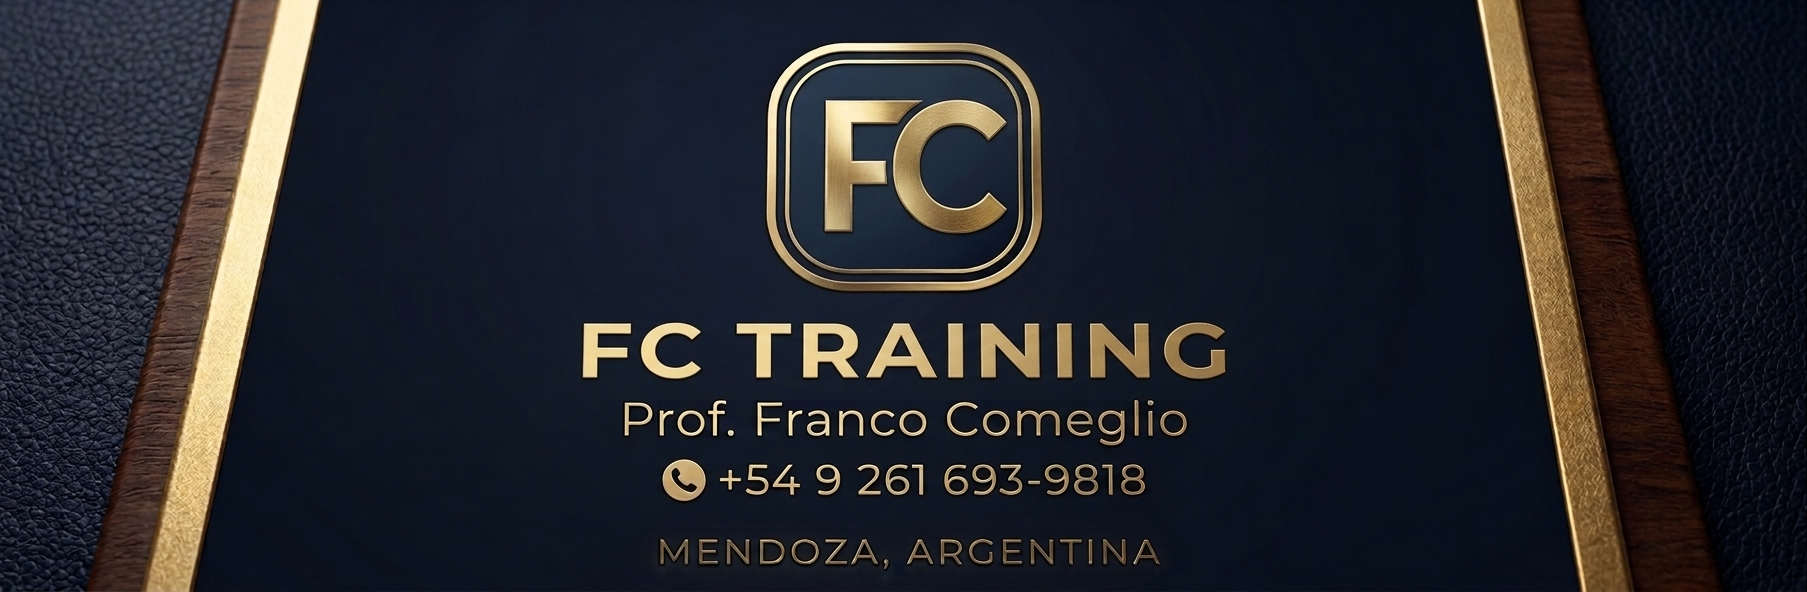
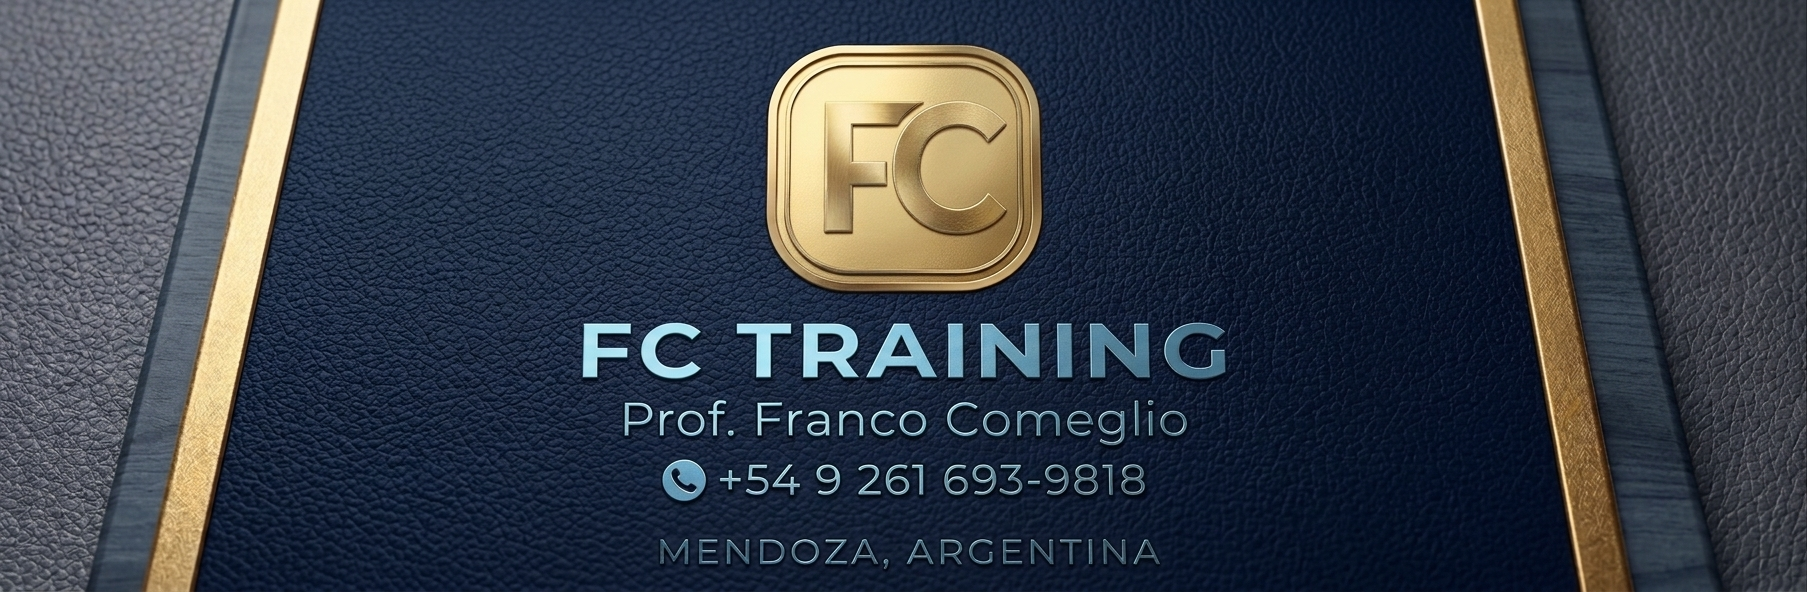
feat: Cambio e integración de Marca Oficial y paleta cromática

diff --git a/index.html b/index.html
@@ -3,7 +3,7 @@
 <head>
     <meta charset="UTF-8">
     <meta name="viewport" content="width=device-width, initial-scale=1.0">
-    <title>fctraining.ar - Prof. Franco Comeglio</title>
+    <title>FC Training - Prof. Franco Comeglio</title>
     
     <!-- Tailwind CSS via CDN -->
     <script src="https://cdn.tailwindcss.com"></script>
@@ -11,7 +11,22 @@
     <script src="https://unpkg.com/feather-icons"></script>
     
     <style>
-        body { -webkit-tap-highlight-color: transparent; }
+        body { 
+            -webkit-tap-highlight-color: transparent; 
+            background-color: #060b14;
+        }
+
+        /* Personalización de scrollbar táctil */
+        ::-webkit-scrollbar {
+            width: 6px;
+        }
+        ::-webkit-scrollbar-track {
+            background: #0b1320;
+        }
+        ::-webkit-scrollbar-thumb {
+            background: #d97706;
+            border-radius: 4px;
+        }
 
         /* ESTILOS DE IMPRESIÓN Y GENERACIÓN PDF NATIVA */
         @media print {
@@ -45,28 +60,23 @@
         }
     </style>
 </head>
-<body class="bg-slate-950 text-slate-100 min-h-screen pb-24 font-sans">
+<body class="text-slate-100 min-h-screen pb-24 font-sans selection:bg-amber-500 selection:text-slate-950">
 
-    <!-- ENCABEZADO PERMANENTE CON IMAGEN DE MARCA FCTRAINING.AR -->
-    <header class="sticky top-0 z-40 bg-slate-900/95 text-white border-b-2 border-amber-500/70 px-4 py-2.5 shadow-2xl backdrop-blur-md">
-        <div class="max-w-md mx-auto flex items-center justify-between">
-            <div class="flex items-center gap-3">
-                <!-- MARCA OFICIAL DEL PROFESOR (IMAGEN DE MARCA) -->
-                <div class="w-12 h-12 rounded-xl bg-slate-950 overflow-hidden shadow-lg border border-amber-400/50 shrink-0 flex items-center justify-center p-0.5">
+    <!-- ENCABEZADO PERMANENTE CON IMAGEN DE MARCA ÚNICA (SIN TEXTOS EXTRA) -->
+    <header class="sticky top-0 z-40 bg-slate-950/95 text-white border-b-2 border-amber-500/80 px-4 py-2 shadow-2xl backdrop-blur-md">
+        <div class="max-w-md mx-auto flex items-center justify-between gap-2">
+            <!-- MARCA ÚNICA OFICIAL DEL PROFESOR -->
+            <div class="flex items-center">
+                <div class="h-14 rounded-xl overflow-hidden shadow-md border border-amber-400/60 bg-slate-900 flex items-center justify-center">
                     <img src="./imagenes/franco-fit-MARCA.jpg" 
                          alt="FC Training - Prof. Franco Comeglio" 
-                         class="w-full h-full object-cover rounded-lg"
-                         onerror="this.onerror=null; this.parentElement.innerHTML='<div class=\'text-[10px] font-black text-amber-400 text-center\'>FC</div>';">
-                </div>
-                <div>
-                    <h1 class="text-base font-black tracking-tight leading-none text-white flex items-center gap-1">
-                        FC <span class="text-amber-400">TRAINING</span><span class="text-xs text-sky-400 font-extrabold">.ar</span>
-                    </h1>
-                    <p class="text-[11px] text-amber-200/90 font-medium mt-0.5" id="prof-name">Prof. Franco Comeglio</p>
-                    <p class="text-[10px] text-slate-400 font-mono" id="prof-contact">+54 9 261 693-9818</p>
+                         class="h-full w-auto object-cover rounded-lg"
+                         onerror="this.onerror=null; this.parentElement.innerHTML='<div class=\'text-xs font-black text-amber-400 px-3\'>FC TRAINING</div>';">
                 </div>
             </div>
-            <button onclick="toggleViewMode()" id="role-toggle-btn" class="text-xs bg-amber-600 hover:bg-amber-500 text-slate-950 px-3 py-2 rounded-xl border border-amber-400 transition font-black shadow-md active:scale-95">
+
+            <!-- BOTÓN DE CAMBIO DE MODO -->
+            <button onclick="toggleViewMode()" id="role-toggle-btn" class="text-xs bg-gradient-to-r from-amber-500 to-amber-600 hover:from-amber-400 hover:to-amber-500 text-slate-950 px-3.5 py-2.5 rounded-xl border border-amber-300 transition font-black shadow-lg active:scale-95 shrink-0">
                 Modo: Profesor
             </button>
         </div>
@@ -75,41 +85,41 @@
     <main class="max-w-md mx-auto p-4 space-y-5">
 
         <!-- BANNER DE ROL / ESTADO -->
-        <div id="role-banner" class="bg-slate-900 border-l-4 border-amber-400 rounded-xl p-3 flex items-center justify-between text-xs text-slate-200 shadow-md">
-            <span id="role-banner-text">Modo Profesor: Gestión de alumnos y diseño de rutinas</span>
-            <span class="w-2.5 h-2.5 rounded-full bg-amber-400 animate-pulse"></span>
+        <div id="role-banner" class="bg-slate-900/90 border-l-4 border-amber-400 rounded-xl p-3 flex items-center justify-between text-xs text-slate-200 shadow-lg border border-slate-800">
+            <span id="role-banner-text" class="font-medium">Modo Profesor: Gestión de alumnos y diseño de rutinas</span>
+            <span class="w-2.5 h-2.5 rounded-full bg-amber-400 animate-pulse shrink-0"></span>
         </div>
 
         <!-- SELECCIÓN Y GESTIÓN DE ALUMNOS + PLANIFICACIÓN (MODO PROFESOR) -->
-        <section id="student-management-card" class="bg-slate-900 rounded-2xl p-4 border border-slate-800 shadow-xl space-y-3">
-            <h3 class="text-xs font-bold text-amber-400 uppercase tracking-wider flex items-center justify-between">
-                <span class="flex items-center gap-1.5"><i data-feather="users" class="w-4 h-4"></i> Selección y Planificación</span>
+        <section id="student-management-card" class="bg-slate-900/90 rounded-2xl p-4 border border-amber-500/20 shadow-xl space-y-3">
+            <h3 class="text-xs font-bold text-amber-400 uppercase tracking-wider flex items-center justify-between border-b border-slate-800 pb-2">
+                <span class="flex items-center gap-1.5"><i data-feather="users" class="w-4 h-4 text-amber-400"></i> Selección y Planificación</span>
             </h3>
 
             <div>
                 <label class="block text-[11px] font-bold text-slate-300 mb-1">Seleccionar Alumno de Lista</label>
-                <select id="student-select-list" onchange="onStudentSelectChange()" class="w-full bg-slate-950 border border-amber-500/40 rounded-xl p-2.5 text-xs text-white font-bold focus:ring-2 focus:ring-amber-400">
+                <select id="student-select-list" onchange="onStudentSelectChange()" class="w-full bg-slate-950 border border-amber-500/40 rounded-xl p-2.5 text-xs text-white font-bold focus:ring-2 focus:ring-amber-400 focus:outline-none">
                 </select>
             </div>
 
             <div class="grid grid-cols-2 gap-2 pt-1">
                 <div>
                     <label class="block text-[10px] font-bold text-slate-400 mb-1">Apellido(s)</label>
-                    <input type="text" id="student-lastname-input" placeholder="Ej. Pérez" class="w-full bg-slate-950 border border-slate-800 rounded-xl p-2 text-xs text-white font-semibold">
+                    <input type="text" id="student-lastname-input" placeholder="Ej. Pérez" class="w-full bg-slate-950 border border-slate-800 rounded-xl p-2 text-xs text-white font-semibold focus:border-amber-400 focus:outline-none">
                 </div>
                 <div>
                     <label class="block text-[10px] font-bold text-slate-400 mb-1">Nombre(s)</label>
-                    <input type="text" id="student-firstname-input" placeholder="Ej. Juan" class="w-full bg-slate-950 border border-slate-800 rounded-xl p-2 text-xs text-white font-semibold">
+                    <input type="text" id="student-firstname-input" placeholder="Ej. Juan" class="w-full bg-slate-950 border border-slate-800 rounded-xl p-2 text-xs text-white font-semibold focus:border-amber-400 focus:outline-none">
                 </div>
             </div>
 
             <!-- CONFIGURACIÓN DE PLANIFICACIÓN Y CICLOS -->
-            <div class="bg-slate-950 p-3 rounded-xl border border-slate-800 space-y-2">
+            <div class="bg-slate-950 p-3 rounded-xl border border-slate-800/80 space-y-2">
                 <span class="text-[10px] font-bold text-amber-400 uppercase tracking-wider block">Configuración de Ciclo</span>
                 <div class="grid grid-cols-2 gap-2">
                     <div>
                         <label class="block text-[10px] font-bold text-slate-400 mb-1">Tipo de Ciclo</label>
-                        <select id="student-cycle-type" class="w-full bg-slate-900 border border-slate-700 rounded-xl p-2 text-xs text-white font-semibold">
+                        <select id="student-cycle-type" class="w-full bg-slate-900 border border-slate-700 rounded-xl p-2 text-xs text-white font-semibold focus:outline-none">
                             <option value="Microciclo">Microciclo</option>
                             <option value="Mesociclo" selected>Mesociclo</option>
                             <option value="Macrociclo">Macrociclo</option>
@@ -117,46 +127,46 @@
                     </div>
                     <div>
                         <label class="block text-[10px] font-bold text-slate-400 mb-1">Duración (Semanas)</label>
-                        <input type="number" id="student-total-weeks" min="1" max="52" value="8" class="w-full bg-slate-900 border border-slate-700 rounded-xl p-2 text-xs text-white font-semibold text-center">
+                        <input type="number" id="student-total-weeks" min="1" max="52" value="8" class="w-full bg-slate-900 border border-slate-700 rounded-xl p-2 text-xs text-white font-semibold text-center focus:outline-none">
                     </div>
                 </div>
             </div>
 
             <div class="flex gap-2 pt-1">
-                <button onclick="saveCurrentStudent()" class="w-full bg-amber-600 hover:bg-amber-500 text-slate-950 text-xs font-black py-2.5 rounded-xl border border-amber-400 shadow transition flex items-center justify-center gap-1.5">
+                <button onclick="saveCurrentStudent()" class="w-full bg-gradient-to-r from-amber-500 to-amber-600 hover:from-amber-400 hover:to-amber-500 text-slate-950 text-xs font-black py-2.5 rounded-xl border border-amber-300 shadow transition flex items-center justify-center gap-1.5 active:scale-95">
                     <i data-feather="save" class="w-3.5 h-3.5"></i> Guardar Alumno / Plan
                 </button>
-                <button onclick="prepareNewStudent()" class="w-1/2 bg-slate-800 hover:bg-slate-700 text-slate-300 text-xs font-bold py-2.5 rounded-xl border border-slate-700 transition flex items-center justify-center gap-1">
+                <button onclick="prepareNewStudent()" class="w-1/2 bg-slate-800 hover:bg-slate-700 text-slate-300 text-xs font-bold py-2.5 rounded-xl border border-slate-700 transition flex items-center justify-center gap-1 active:scale-95">
                     <i data-feather="user-plus" class="w-3.5 h-3.5"></i> Nuevo
                 </button>
             </div>
         </section>
 
         <!-- FICHA ALUMNO ACTIVO -->
-        <section class="bg-gradient-to-r from-slate-900 via-slate-900 to-amber-950/40 text-white rounded-2xl p-4 border border-amber-500/30 shadow-2xl space-y-3">
-            <div class="flex justify-between items-start border-b border-slate-800 pb-3">
+        <section class="bg-gradient-to-br from-slate-900 via-slate-900 to-amber-950/30 text-white rounded-2xl p-4 border border-amber-500/30 shadow-2xl space-y-3">
+            <div class="flex justify-between items-start border-b border-slate-800/80 pb-3">
                 <div>
                     <span class="text-[10px] font-bold text-amber-400 uppercase tracking-widest block">Alumno Activo</span>
-                    <h2 class="text-xl font-black text-white" id="student-display-fullname">Pérez, Juan</h2>
+                    <h2 class="text-xl font-black text-white tracking-tight" id="student-display-fullname">Pérez, Juan</h2>
                 </div>
                 <div class="text-right">
                     <span class="text-[10px] text-amber-400 uppercase tracking-wider block">Planificación</span>
-                    <span class="text-xs font-extrabold text-amber-200 bg-slate-950 px-2.5 py-1 rounded-lg border border-amber-500/40 inline-block" id="cycle-display">Mesociclo (8 Semanas)</span>
+                    <span class="text-xs font-extrabold text-amber-200 bg-slate-950 px-2.5 py-1 rounded-lg border border-amber-500/40 inline-block shadow-inner" id="cycle-display">Mesociclo (8 Semanas)</span>
                 </div>
             </div>
         </section>
 
         <!-- SELECCIÓN SEMANA Y DÍA EN PANTALLA -->
-        <section id="prof-controls" class="bg-slate-900 rounded-2xl p-4 border border-slate-800 shadow-xl space-y-4">
+        <section id="prof-controls" class="bg-slate-900/90 rounded-2xl p-4 border border-slate-800 shadow-xl space-y-4">
             <div class="grid grid-cols-2 gap-2">
                 <div>
                     <label class="block text-xs font-bold text-slate-300 mb-1">Semana de Vista</label>
-                    <select id="week-select" onchange="onWeekSelectChange()" class="w-full bg-slate-950 border border-amber-500/40 rounded-xl p-2.5 text-xs text-white font-bold">
+                    <select id="week-select" onchange="onWeekSelectChange()" class="w-full bg-slate-950 border border-amber-500/40 rounded-xl p-2.5 text-xs text-white font-bold focus:ring-2 focus:ring-amber-400 focus:outline-none">
                     </select>
                 </div>
                 <div>
                     <label class="block text-xs font-bold text-slate-300 mb-1">Día de Vista</label>
-                    <select id="day-select" onchange="onDaySelectChange()" class="w-full bg-slate-950 border border-amber-500/40 rounded-xl p-2.5 text-xs text-white font-bold">
+                    <select id="day-select" onchange="onDaySelectChange()" class="w-full bg-slate-950 border border-amber-500/40 rounded-xl p-2.5 text-xs text-white font-bold focus:ring-2 focus:ring-amber-400 focus:outline-none">
                         <option value="1">Día 1</option>
                         <option value="2">Día 2</option>
                         <option value="3">Día 3</option>
@@ -174,7 +184,7 @@
                 <h3 class="text-sm font-bold text-slate-200 flex items-center gap-2">
                     <i data-feather="activity" class="w-4 h-4 text-amber-400"></i> Ejercicios: <span id="current-view-title" class="text-amber-300 font-extrabold">Semana 1 / Día 1</span>
                 </h3>
-                <button onclick="openAddModal()" id="add-ex-btn" class="text-xs bg-amber-600 hover:bg-amber-500 text-slate-950 font-black px-3 py-1.5 rounded-xl transition shadow border border-amber-400">
+                <button onclick="openAddModal()" id="add-ex-btn" class="text-xs bg-amber-500 hover:bg-amber-400 text-slate-950 font-black px-3 py-1.5 rounded-xl transition shadow-lg border border-amber-300 active:scale-95">
                     + Cargar Ejercicio
                 </button>
             </div>
@@ -183,8 +193,8 @@
         </section>
 
         <!-- MÓDULO NUTRICIONAL EN PANTALLA -->
-        <section id="interactive-nutrition-section" class="bg-slate-900 border border-slate-800 p-4 rounded-2xl space-y-3 shadow-xl">
-            <div class="flex items-center justify-between border-b border-slate-800 pb-2">
+        <section id="interactive-nutrition-section" class="bg-slate-900/90 border border-slate-800 p-4 rounded-2xl space-y-3 shadow-xl">
+            <div class="flex items-center justify-between border-b border-slate-800/80 pb-2">
                 <h3 class="text-xs font-bold text-emerald-400 uppercase tracking-wider flex items-center gap-1.5">
                     <i data-feather="coffee" class="w-4 h-4"></i> Plan Nutricional & Recomendaciones
                 </h3>
@@ -198,8 +208,8 @@
         </section>
 
         <!-- BOTÓN DE GUARDAR / IMPRIMIR PDF COMPLETO (MODO ALUMNO) -->
-        <section id="prof-actions" class="bg-slate-900 border border-slate-800 p-4 rounded-2xl space-y-3 shadow-xl hidden">
-            <button onclick="triggerPrintPDF()" class="w-full bg-gradient-to-r from-amber-600 to-amber-700 hover:from-amber-500 hover:to-amber-600 text-slate-950 font-black p-3.5 rounded-xl border border-amber-300 shadow-xl flex items-center justify-center gap-2 text-xs">
+        <section id="prof-actions" class="bg-slate-900/90 border border-slate-800 p-4 rounded-2xl space-y-3 shadow-xl hidden">
+            <button onclick="triggerPrintPDF()" class="w-full bg-gradient-to-r from-amber-500 via-amber-600 to-amber-500 hover:from-amber-400 hover:to-amber-500 text-slate-950 font-black p-3.5 rounded-xl border border-amber-300 shadow-xl flex items-center justify-center gap-2 text-xs active:scale-95 transition">
                 <i data-feather="printer" class="w-4 h-4 text-slate-950"></i> Guardar / Imprimir PDF Completo (Todas las Semanas)
             </button>
         </section>
@@ -225,26 +235,26 @@
                 <input type="hidden" id="modal-ex-id" value="">
                 <div>
                     <label class="block font-bold text-slate-300 mb-1">Nombre del Ejercicio *</label>
-                    <input type="text" id="modal-ex-name" required placeholder="Ej. Press Banca Plano" class="w-full bg-slate-950 border border-slate-700 rounded-xl p-2.5 text-white">
+                    <input type="text" id="modal-ex-name" required placeholder="Ej. Press Banca Plano" class="w-full bg-slate-950 border border-slate-700 rounded-xl p-2.5 text-white focus:border-amber-400 focus:outline-none">
                 </div>
 
                 <div class="bg-slate-950 p-3 rounded-xl border border-slate-800 space-y-2">
                     <label class="block font-bold text-amber-300 text-[11px]">Demostración Visual (GIF / Vídeo / Imagen)</label>
                     <div>
                         <label class="block text-[10px] text-slate-400 mb-1">A) Enlace / URL Web</label>
-                        <input type="url" id="modal-ex-media-url" placeholder="https://media.giphy.com/..." class="w-full bg-slate-900 border border-slate-700 rounded-xl p-2 text-white text-[11px]">
+                        <input type="url" id="modal-ex-media-url" placeholder="https://media.giphy.com/..." class="w-full bg-slate-900 border border-slate-700 rounded-xl p-2 text-white text-[11px] focus:border-amber-400 focus:outline-none">
                     </div>
                     <div class="text-center text-[10px] font-bold text-slate-500 uppercase">- O -</div>
                     <div>
                         <label class="block text-[10px] text-slate-400 mb-1">B) Archivo Local</label>
-                        <input type="file" id="modal-ex-file" accept="image/*" class="w-full bg-slate-900 text-slate-300 text-[11px] rounded-xl border border-slate-700 file:mr-2 file:py-1.5 file:px-3 file:rounded-lg file:border-0 file:text-[10px] file:font-bold file:bg-amber-600 file:text-slate-950 hover:file:bg-amber-500">
+                        <input type="file" id="modal-ex-file" accept="image/*" class="w-full bg-slate-900 text-slate-300 text-[11px] rounded-xl border border-slate-700 file:mr-2 file:py-1.5 file:px-3 file:rounded-lg file:border-0 file:text-[10px] file:font-bold file:bg-amber-500 file:text-slate-950 hover:file:bg-amber-400">
                     </div>
                 </div>
 
                 <div class="grid grid-cols-3 gap-2">
                     <div class="col-span-1">
                         <label class="block font-bold text-amber-300 mb-1">Tipo</label>
-                        <select id="modal-ex-type" class="w-full bg-slate-950 border border-amber-500/40 rounded-xl p-2.5 text-white font-bold">
+                        <select id="modal-ex-type" class="w-full bg-slate-950 border border-amber-500/40 rounded-xl p-2.5 text-white font-bold focus:outline-none">
                             <option value="Serie Simple">Serie Simple</option>
                             <option value="Biserie">Biserie</option>
                             <option value="Circuito">Circuito</option>
@@ -252,11 +262,11 @@
                     </div>
                     <div>
                         <label class="block font-bold text-slate-300 mb-1">Series</label>
-                        <input type="number" id="modal-ex-sets" min="1" max="20" value="4" required class="w-full bg-slate-950 border border-slate-700 rounded-xl p-2.5 text-white text-center font-bold">
+                        <input type="number" id="modal-ex-sets" min="1" max="20" value="4" required class="w-full bg-slate-950 border border-slate-700 rounded-xl p-2.5 text-white text-center font-bold focus:outline-none">
                     </div>
                     <div>
                         <label class="block font-bold text-slate-300 mb-1">Repeticiones</label>
-                        <input type="text" id="modal-ex-reps" required placeholder="10-12" value="10-12" class="w-full bg-slate-950 border border-slate-700 rounded-xl p-2.5 text-white text-center font-bold">
+                        <input type="text" id="modal-ex-reps" required placeholder="10-12" value="10-12" class="w-full bg-slate-950 border border-slate-700 rounded-xl p-2.5 text-white text-center font-bold focus:outline-none">
                     </div>
                 </div>
 
@@ -290,7 +300,7 @@
 
                 <div class="flex gap-2 pt-2">
                     <button type="button" onclick="closeModal()" class="w-1/2 bg-slate-800 hover:bg-slate-700 text-slate-300 py-2.5 rounded-xl font-bold">Cancelar</button>
-                    <button type="submit" class="w-1/2 bg-amber-600 hover:bg-amber-500 text-slate-950 py-2.5 rounded-xl font-black shadow border border-amber-400">Guardar Ejercicio</button>
+                    <button type="submit" class="w-1/2 bg-amber-500 hover:bg-amber-400 text-slate-950 py-2.5 rounded-xl font-black shadow border border-amber-300">Guardar Ejercicio</button>
                 </div>
             </form>
         </div>
@@ -309,11 +319,11 @@
             <form onsubmit="saveNutritionPlan(event)" class="space-y-3 text-xs">
                 <div>
                     <label class="block font-bold text-slate-300 mb-1">Indicaciones / Pautas Dietéticas</label>
-                    <textarea id="nut-diet-input" rows="3" placeholder="Ej. Aumentar consumo de proteínas (2g/kg). Mantener superávit calórico." class="w-full bg-slate-950 border border-slate-700 rounded-xl p-2.5 text-white"></textarea>
+                    <textarea id="nut-diet-input" rows="3" placeholder="Ej. Aumentar consumo de proteínas (2g/kg). Mantener superávit calórico." class="w-full bg-slate-950 border border-slate-700 rounded-xl p-2.5 text-white focus:border-amber-400 focus:outline-none"></textarea>
                 </div>
                 <div>
                     <label class="block font-bold text-slate-300 mb-1">Hidratación y Suplementación</label>
-                    <textarea id="nut-supplements-input" rows="2" placeholder="Ej. 3 litros de agua/día. Creatina 5g diarios post entreno." class="w-full bg-slate-950 border border-slate-700 rounded-xl p-2.5 text-white"></textarea>
+                    <textarea id="nut-supplements-input" rows="2" placeholder="Ej. 3 litros de agua/día. Creatina 5g diarios post entreno." class="w-full bg-slate-950 border border-slate-700 rounded-xl p-2.5 text-white focus:border-amber-400 focus:outline-none"></textarea>
                 </div>
 
                 <div class="flex gap-2 pt-2">
@@ -576,29 +586,29 @@
 
                     <div class="p-4 space-y-3">
                         <div class="flex justify-between items-center">
-                            <h4 class="font-black text-white text-base">${ex.name}</h4>
-                            <span class="bg-amber-500 text-slate-950 text-[10px] font-black px-2.5 py-0.5 rounded-full">${ex.type}</span>
+                            <h4 class="font-black text-white text-base tracking-tight">${ex.name}</h4>
+                            <span class="bg-amber-500 text-slate-950 text-[10px] font-black px-2.5 py-0.5 rounded-full uppercase">${ex.type}</span>
                         </div>
 
                         <div class="grid grid-cols-2 gap-2 text-xs">
-                            <div class="bg-slate-950 p-2 rounded-xl text-center border border-slate-800">
+                            <div class="bg-slate-950 p-2 rounded-xl text-center border border-slate-800/80">
                                 <span class="text-amber-400 text-[10px] font-bold block">Series</span>
                                 <span class="text-white font-black text-base">${ex.sets}</span>
                             </div>
-                            <div class="bg-slate-950 p-2 rounded-xl text-center border border-slate-800">
+                            <div class="bg-slate-950 p-2 rounded-xl text-center border border-slate-800/80">
                                 <span class="text-amber-400 text-[10px] font-bold block">Repeticiones</span>
                                 <span class="text-white font-black text-base">${ex.reps}</span>
                             </div>
                         </div>
 
-                        <div class="bg-slate-950 p-2.5 rounded-xl text-center grid grid-cols-3 gap-1 text-[10px] border border-slate-800">
-                            <div><span class="text-slate-400 block">Ejecución</span><strong>${ex.execTime}</strong></div>
-                            <div><span class="text-slate-400 block">Desc. Rep</span><strong>${ex.repRestTime}</strong></div>
-                            <div><span class="text-slate-400 block">Desc. Serie</span><strong>${ex.setRestTime}</strong></div>
+                        <div class="bg-slate-950 p-2.5 rounded-xl text-center grid grid-cols-3 gap-1 text-[10px] border border-slate-800/80">
+                            <div><span class="text-slate-400 block">Ejecución</span><strong class="text-slate-200">${ex.execTime}</strong></div>
+                            <div><span class="text-slate-400 block">Desc. Rep</span><strong class="text-slate-200">${ex.repRestTime}</strong></div>
+                            <div><span class="text-slate-400 block">Desc. Serie</span><strong class="text-slate-200">${ex.setRestTime}</strong></div>
                         </div>
 
                         ${isProfMode ? `
-                        <div class="flex justify-end gap-2 pt-1 border-t border-slate-800">
+                        <div class="flex justify-end gap-2 pt-1 border-t border-slate-800/80">
                             <button onclick="editExercise(${ex.id})" class="text-[11px] bg-slate-800 hover:bg-slate-700 text-amber-300 px-2.5 py-1 rounded-lg border border-slate-700 flex items-center gap-1 font-bold">
                                 <i data-feather="edit-2" class="w-3 h-3"></i> Editar
                             </button>
@@ -789,7 +799,7 @@
             setTimeout(() => { toast.classList.add('hidden'); }, 3000);
         }
 
-        // GENERADOR COMPLETO DE PDF MULTISEMANA CON MARCA FCTRAINING.AR
+        // GENERADOR COMPLETO DE PDF MULTISEMANA CON MARCA DEDICADA
         function generateFullPrintReport() {
             const st = studentsDatabase.find(item => item.id === currentStudentId);
             if (!st) return '';
@@ -832,7 +842,7 @@
                 if (weekHTML) {
                     fullRoutineHTML += `
                         <div style="margin-top: 16px;" class="pdf-avoid-break">
-                            <div style="background: #0f172a; color: #ffffff; padding: 6px 10px; font-weight: bold; font-size: 12px; border-radius: 4px; letter-spacing: 0.5px; border-left: 4px solid #f59e0b;">
+                            <div style="background: #0b192c; color: #ffffff; padding: 6px 10px; font-weight: bold; font-size: 12px; border-radius: 4px; letter-spacing: 0.5px; border-left: 4px solid #f59e0b;">
                                 SEMANA ${w}
                             </div>
                             ${weekHTML}
@@ -862,18 +872,9 @@
 
             return `
                 <div style="font-family: Arial, sans-serif; color: #0f172a;">
-                    <!-- ENCABEZADO CON MARCA FCTRAINING.AR -->
-                    <div style="border-bottom: 2px solid #f59e0b; padding-bottom: 8px; margin-bottom: 12px; display: flex; justify-content: space-between; align-items: center;">
-                        <div style="display: flex; align-items: center; gap: 10px;">
-                            <img src="./imagenes/franco-fit-MARCA.jpg" style="height: 40px; border-radius: 6px; border: 1px solid #f59e0b;">
-                            <div>
-                                <h1 style="margin: 0; font-size: 18px; color: #0f172a; font-weight: 900;">FC <span style="color:#d97706">TRAINING</span>.ar</h1>
-                                <p style="margin: 1px 0; font-size: 11px; color: #475569; font-weight: bold;">Prof. Franco Comeglio | Entrenamiento Personalizado</p>
-                            </div>
-                        </div>
-                        <div style="text-align: right; font-size: 11px; color: #475569;">
-                            <strong>Contacto:</strong> +54 9 261 693-9818
-                        </div>
+                    <!-- ENCABEZADO CON MARCA OFICIAL LIMPULSA -->
+                    <div style="border-bottom: 2px solid #f59e0b; padding-bottom: 8px; margin-bottom: 12px; display: flex; justify-content: center; align-items: center;">
+                        <img src="./imagenes/franco-fit-MARCA.jpg" style="height: 60px; border-radius: 8px; border: 1px solid #d97706;">
                     </div>
 
                     <!-- FICHA ALUMNO -->
